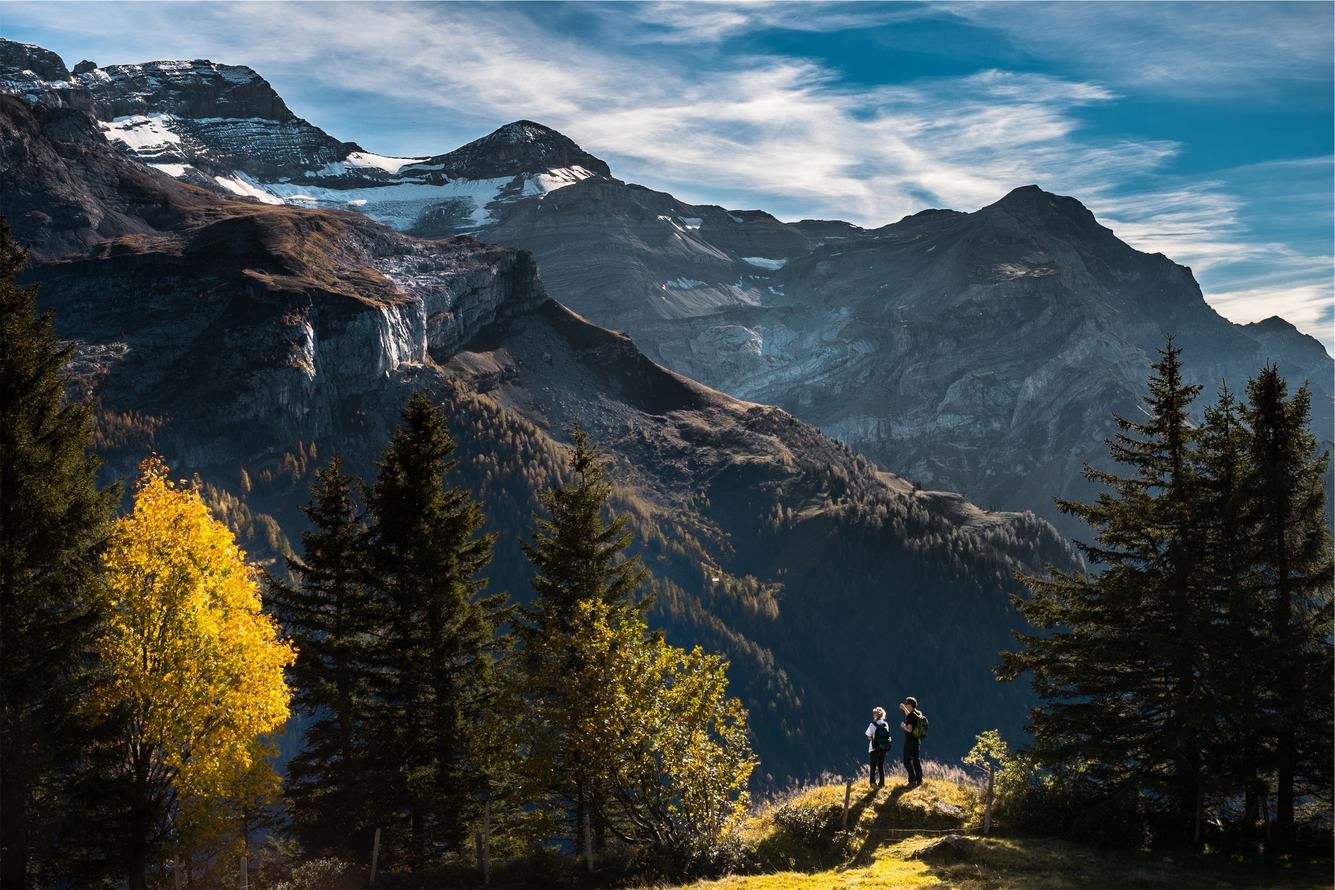
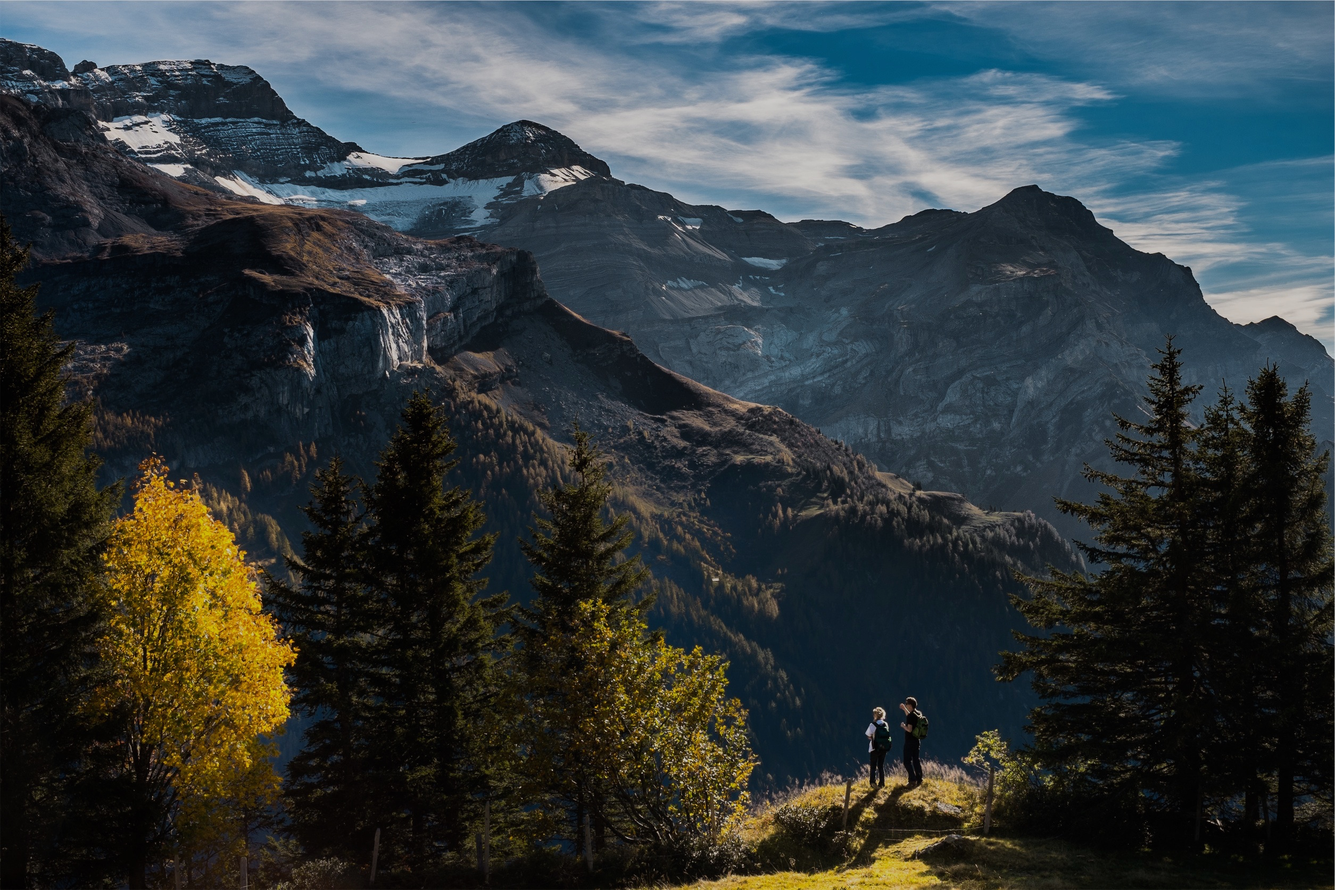
Darkened pictures and changed team to crew

diff --git a/index.html b/index.html
@@ -92,7 +92,7 @@
                         <a class="page-scroll" href="#support">Support</a>
                     </li>
                      <li>
-                        <a class="page-scroll" href="#team">Team</a>
+                        <a class="page-scroll" href="#team">Crew</a>
                     </li>
                     <li>
                         <a class="page-scroll" href="#contact">Contact</a>
